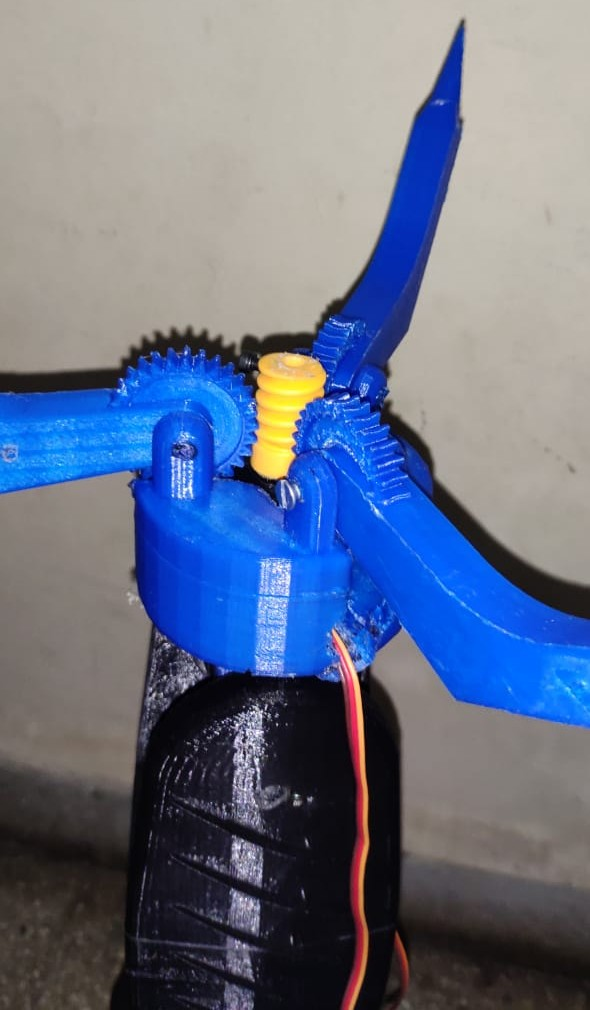
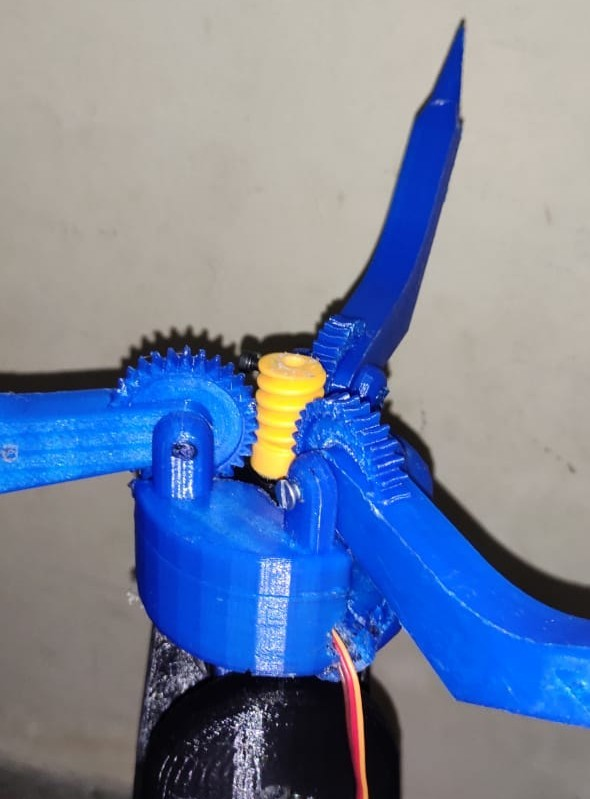
feat: [3D-Printed-Robotic-Arm]: Images resized

diff --git a/README.md b/README.md
@@ -5,11 +5,13 @@
 <img height="400" src="images/3d_printed_parts.jpg" width="400" alt="3D-Printed-Parts" title="3D-Printed-Parts"/>
 
 ### Assembly
-<img height="400" src="images/assembly_1.jpg" width="400" alt="Assembly-1" title="Assembly-1"/>
-<img height="400" src="images/assembly_2.jpg" width="400" alt="Assembly-2" title="Assembly-2"/>
+<p>
+    <img height="709" src="images/assembly_1.jpg" width="480" alt="Assembly-1" title="Assembly-1"/>
+    <img height="694" src="images/assembly_2.jpg" width="380" alt="Assembly-2" title="Assembly-2"/>
+</p>
 
 ### End Effector
-<img height="400" src="images/end_effector.jpg" width="400" alt="End-Effector" title="End-Effector"/>
+<img height="880" src="images/end_effector.jpg" width="400" alt="End-Effector" title="End-Effector"/>
 
 ### Final Assembly
 <img height="400" src="images/final_assembly_1.jpg" width="400" alt="Final-Assembly-1" title="Final-Assembly-1"/>
